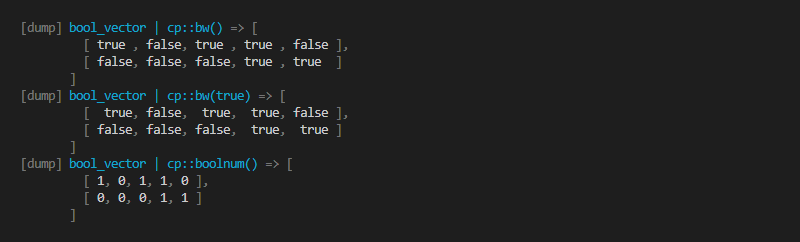
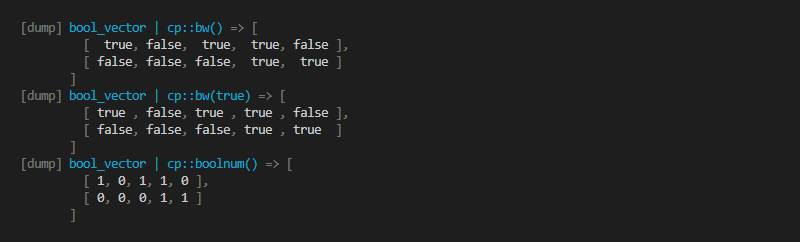
change param of bw() right -> left

diff --git a/README.md b/README.md
@@ -490,7 +490,7 @@ cpp_dump::map_k(return_value_of_manipulator);
 cpp_dump::map_v(return_value_of_manipulator);
 cpp_dump::map_kv(return_value_of_manipulator_for_key, return_value_of_manipulator_for_value);
 cpp_dump::format(const char *f);
-cpp_dump::bw(bool right = false);
+cpp_dump::bw(bool left = false);
 cpp_dump::boolnum();
 cpp_dump::stresc();
 cpp_dump::charhex();
@@ -817,7 +817,7 @@ cpp_dump(pi | cp::format("%.10f"));
 #### `bw()`, `boolnum()` manipulator (experimental feature)
 
 ```cpp
-cpp_dump::bw(bool right = false);
+cpp_dump::bw(bool left = false);
 cpp_dump::boolnum();
 ```
 
